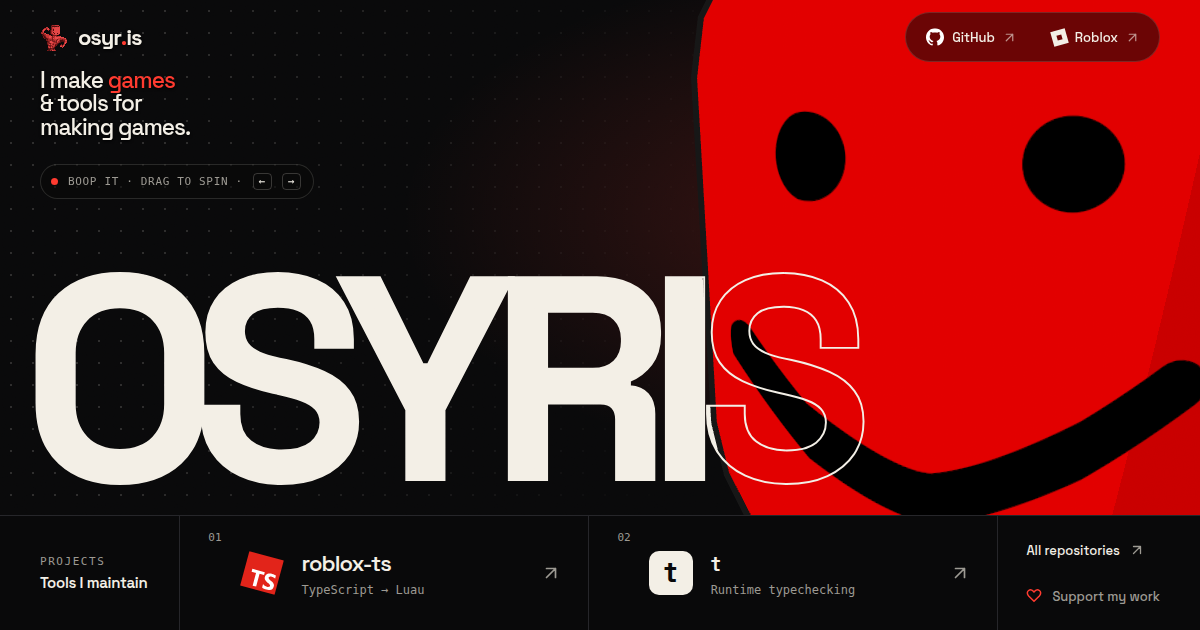
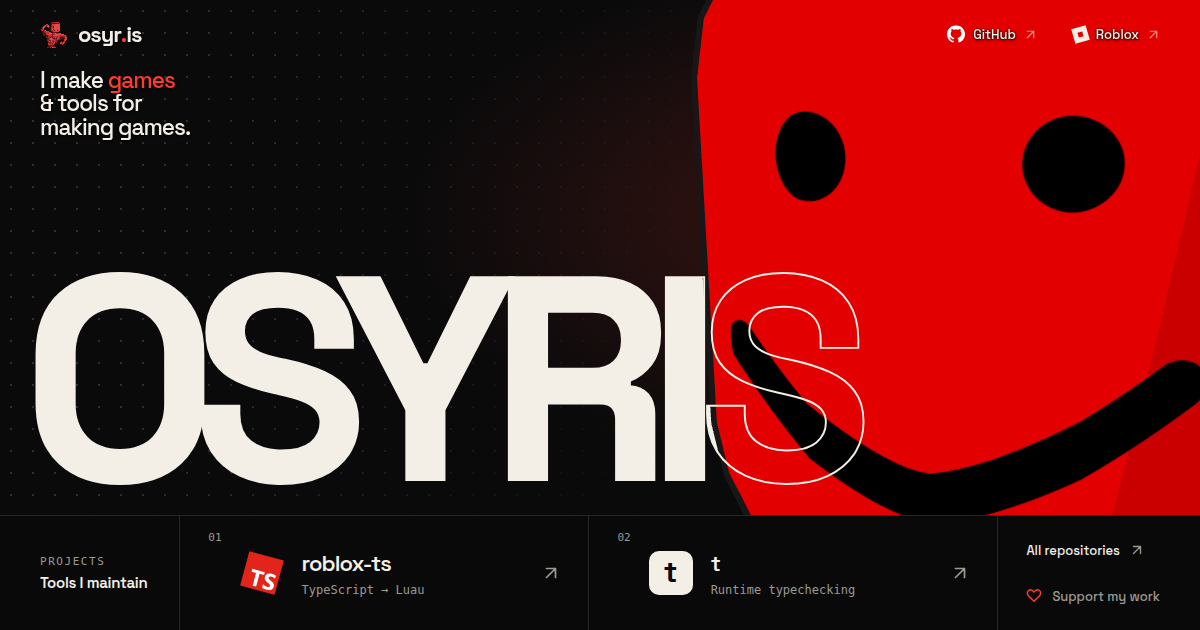
Drop the nav pill and the interaction hint
The top-right links sit directly on the poster again with a text shadow
and an underline on hover, and the "boop it / drag to spin" chip is gone.

Claude-Session: https://claude.ai/code/session_01KerEeg5wv7HPdZ8Vv7nWTM

diff --git a/src/styles/global.css b/src/styles/global.css
@@ -153,31 +153,22 @@ a {
 nav {
 	display: flex;
 	gap: 4px;
-	padding: 4px;
-	border: 1px solid rgb(243 239 230 / 0.14);
-	border-radius: 999px;
-	background: rgb(9 9 10 / 0.55);
-	backdrop-filter: blur(12px);
-	-webkit-backdrop-filter: blur(12px);
+	margin-right: -16px;
+	text-shadow:
+		0 1px 3px #000,
+		0 0 2px #000;
 }
 nav a {
 	display: flex;
 	align-items: center;
 	gap: 8px;
-	min-height: 40px;
+	min-height: 44px;
 	padding: 0 16px;
-	border-radius: 999px;
 	font-weight: 500;
-	transition:
-		background-color 0.2s,
-		color 0.2s;
 }
 nav a:hover {
-	background: var(--paper);
-	color: var(--ink);
-}
-nav a:hover img {
-	filter: none;
+	text-decoration: underline;
+	text-underline-offset: 4px;
 }
 nav a:focus-visible {
 	outline-color: var(--paper);
@@ -222,51 +213,6 @@ nav .icon {
 	font-style: normal;
 	color: var(--red);
 }
-.head-hint {
-	display: flex;
-	align-items: center;
-	gap: 10px;
-	padding: 8px 12px 8px 10px;
-	border: 1px solid rgb(243 239 230 / 0.14);
-	border-radius: 999px;
-	background: rgb(9 9 10 / 0.55);
-	color: var(--muted);
-	font: 500 11px/1 var(--mono);
-	letter-spacing: 0.06em;
-	text-transform: uppercase;
-	opacity: 0;
-	transform: translateY(6px);
-	transition:
-		opacity 0.6s 0.4s,
-		transform 0.6s 0.4s;
-}
-.head-hint::before {
-	content: '';
-	width: 7px;
-	height: 7px;
-	border-radius: 50%;
-	background: var(--red);
-	box-shadow: 0 0 0 0 rgb(255 59 48 / 0.6);
-	animation: hint-pulse 2.4s ease-out infinite;
-}
-.head-hint kbd {
-	padding: 2px 5px;
-	border: 1px solid rgb(243 239 230 / 0.2);
-	border-radius: 4px;
-	font: inherit;
-	color: var(--paper);
-}
-.poster-hero:has(#head-stage[data-state='ready']) .head-hint {
-	opacity: 1;
-	transform: none;
-}
-@keyframes hint-pulse {
-	70%,
-	100% {
-		box-shadow: 0 0 0 8px rgb(255 59 48 / 0);
-	}
-}
-
 .head-playground {
 	position: absolute;
 	inset: 0;
@@ -572,9 +518,11 @@ nav .icon {
 		width: 24px;
 		height: 24px;
 	}
+	nav {
+		margin-right: -12px;
+	}
 	nav a {
 		padding: 0 12px;
-		min-height: 36px;
 	}
 	nav .icon {
 		display: none;
@@ -588,9 +536,6 @@ nav .icon {
 	}
 	.intro em {
 		color: inherit;
-	}
-	.head-hint {
-		display: none;
 	}
 	.wordmark {
 		bottom: 30px;
@@ -664,8 +609,7 @@ nav .icon {
 }
 
 @media (prefers-reduced-motion: reduce) {
-	.sleep-symbols span,
-	.head-hint::before {
+	.sleep-symbols span {
 		animation: none;
 	}
 	*,

diff --git a/tests/readiness.spec.ts b/tests/readiness.spec.ts
@@ -217,6 +217,10 @@ test('the head fills the right edge and top corner across viewport sizes', async
 				`${viewport.width}px, ${key}: uncovered right edge`,
 			).toBe(0);
 		}
+		await expect(page.locator('.site-header nav')).toHaveCSS(
+			'background-color',
+			'rgba(0, 0, 0, 0)',
+		);
 	}
 });
 
